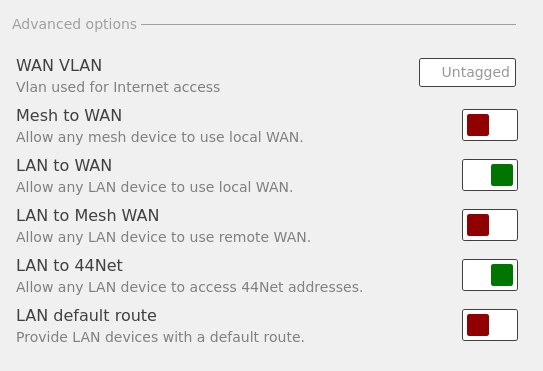
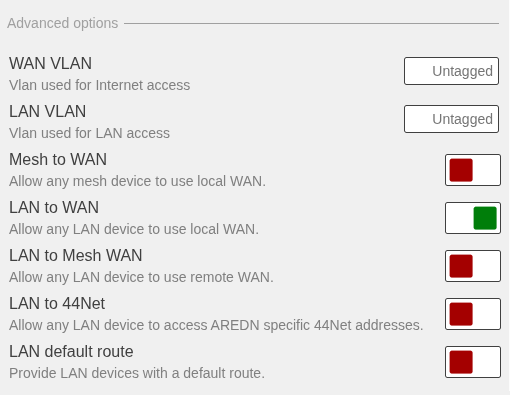
update network adv options

diff --git a/arednGettingStarted/node_admin.rst b/arednGettingStarted/node_admin.rst
@@ -258,14 +258,16 @@ Additional options will be displayed when you click **Advanced Options**.
   :alt: Admin Network Advanced Options
   :align: center
 
-WAN VLAN (single port nodes)
-^^^^^^^^^^^^^^^^^^^^^^^^^^^^
+WAN & LAN VLANs for single port nodes
+^^^^^^^^^^^^^^^^^^^^^^^^^^^^^^^^^^^^^
 
-Many of the devices used as AREDN® nodes have only one Ethernet port, so several types of network traffic must share that single port. The AREDN® firmware implements :abbr:`VLANs (Virtual Local Area Network)` in order to accomplish this. Different types of traffic are tagged to identify the network to which they belong. By default the WAN uses ``VLAN 1`` on single port devices. This can be changed if your network requires something different. Enter the VLAN number or leave the field blank for *untagged*. If you change this setting and want to use a single digit identifier, use numbers greater than three, but do not use any number larger than can be supported by your network equipment. Different types of network equipment can support various numbers of VLANS, but the maximum number is limited by the `802.1Q standard <https://en.wikipedia.org/wiki/IEEE_802.1Q#Frame_format>`_ to no more than 4094.
+Many of the devices used as AREDN® nodes have only one Ethernet port, and several types of network traffic must share that single port. The AREDN® firmware implements :abbr:`VLANs (Virtual Local Area Network)` in order to accomplish this. Different types of traffic are tagged to identify the network to which they belong.
+
+By default the WAN uses ``VLAN 1`` and the LAN is ``Untagged`` on single port devices. These can be changed if your network requires something different. Enter the VLAN number or leave the field blank for *Untagged*. If you change this setting and want to use a single digit identifier, use numbers ≥ 5 but do not use any number larger than can be supported by your network equipment. Different types of network equipment can support various numbers of VLANS, but the maximum number is limited by the `802.1Q standard <https://en.wikipedia.org/wiki/IEEE_802.1Q#Frame_format>`_ to no more than 4094.
 
 The following VLANs are preconfigured in the AREDN® firmware:
 
-- No VLAN tag identifies LAN traffic from devices on the local area network
+- Untagged identifies LAN traffic from devices on the local area network
 - VLAN 1 identifies WAN traffic to your node from the Internet or another external network
 - VLAN 2 identifies traffic from a :abbr:`DtD (Device to Device)` node directly connected to your node
 

diff --git a/appendix/acronyms.rst b/appendix/acronyms.rst
@@ -155,6 +155,8 @@ List of acronyms sometimes encountered in the AREDN® project.
 :PR: Pull Request (a GitHub mechanism)
 :PSK: Phase-Shift Keying
 :PSK: Protect Access Pre-Shared Key
+:PTMP: Point to multipoint
+:PTP: Point to point
 :PTZ: Pan, Tilt, and Zoom (video camera control)
 :PUB: Public Key File Extension
 :PUTTY: Communications tool for running interactive command-line sessions on other computers
